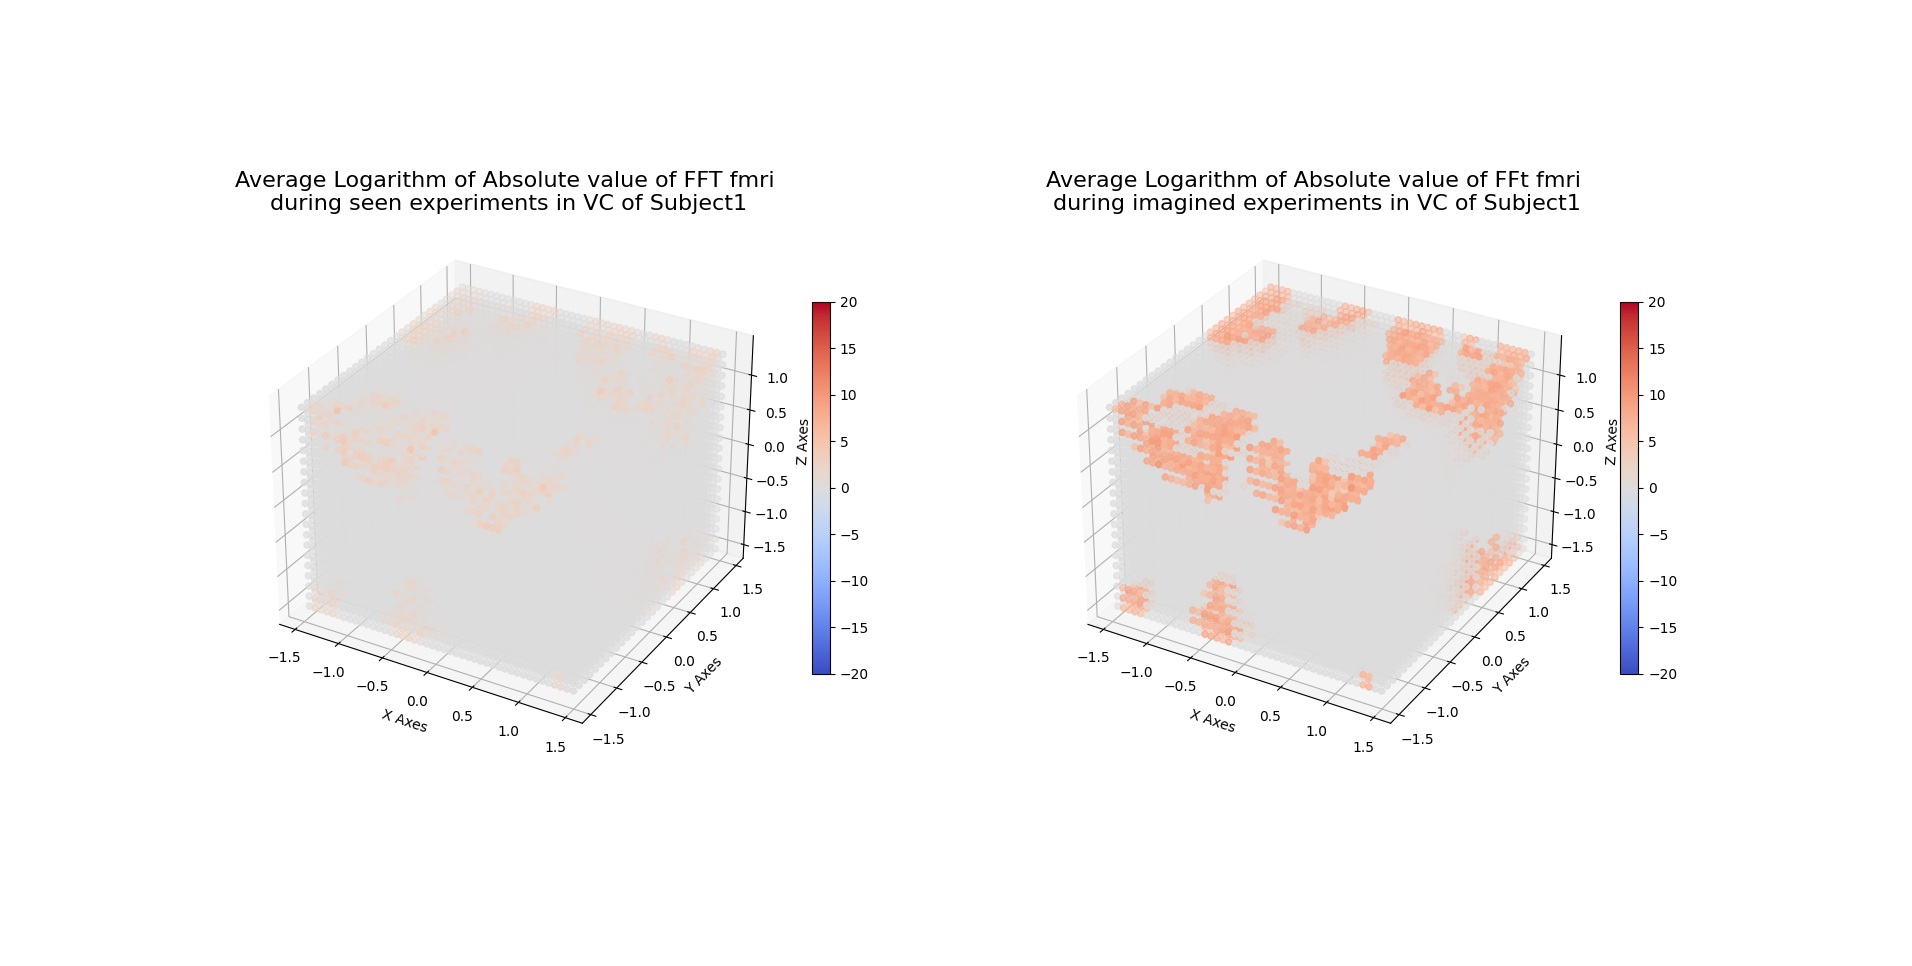
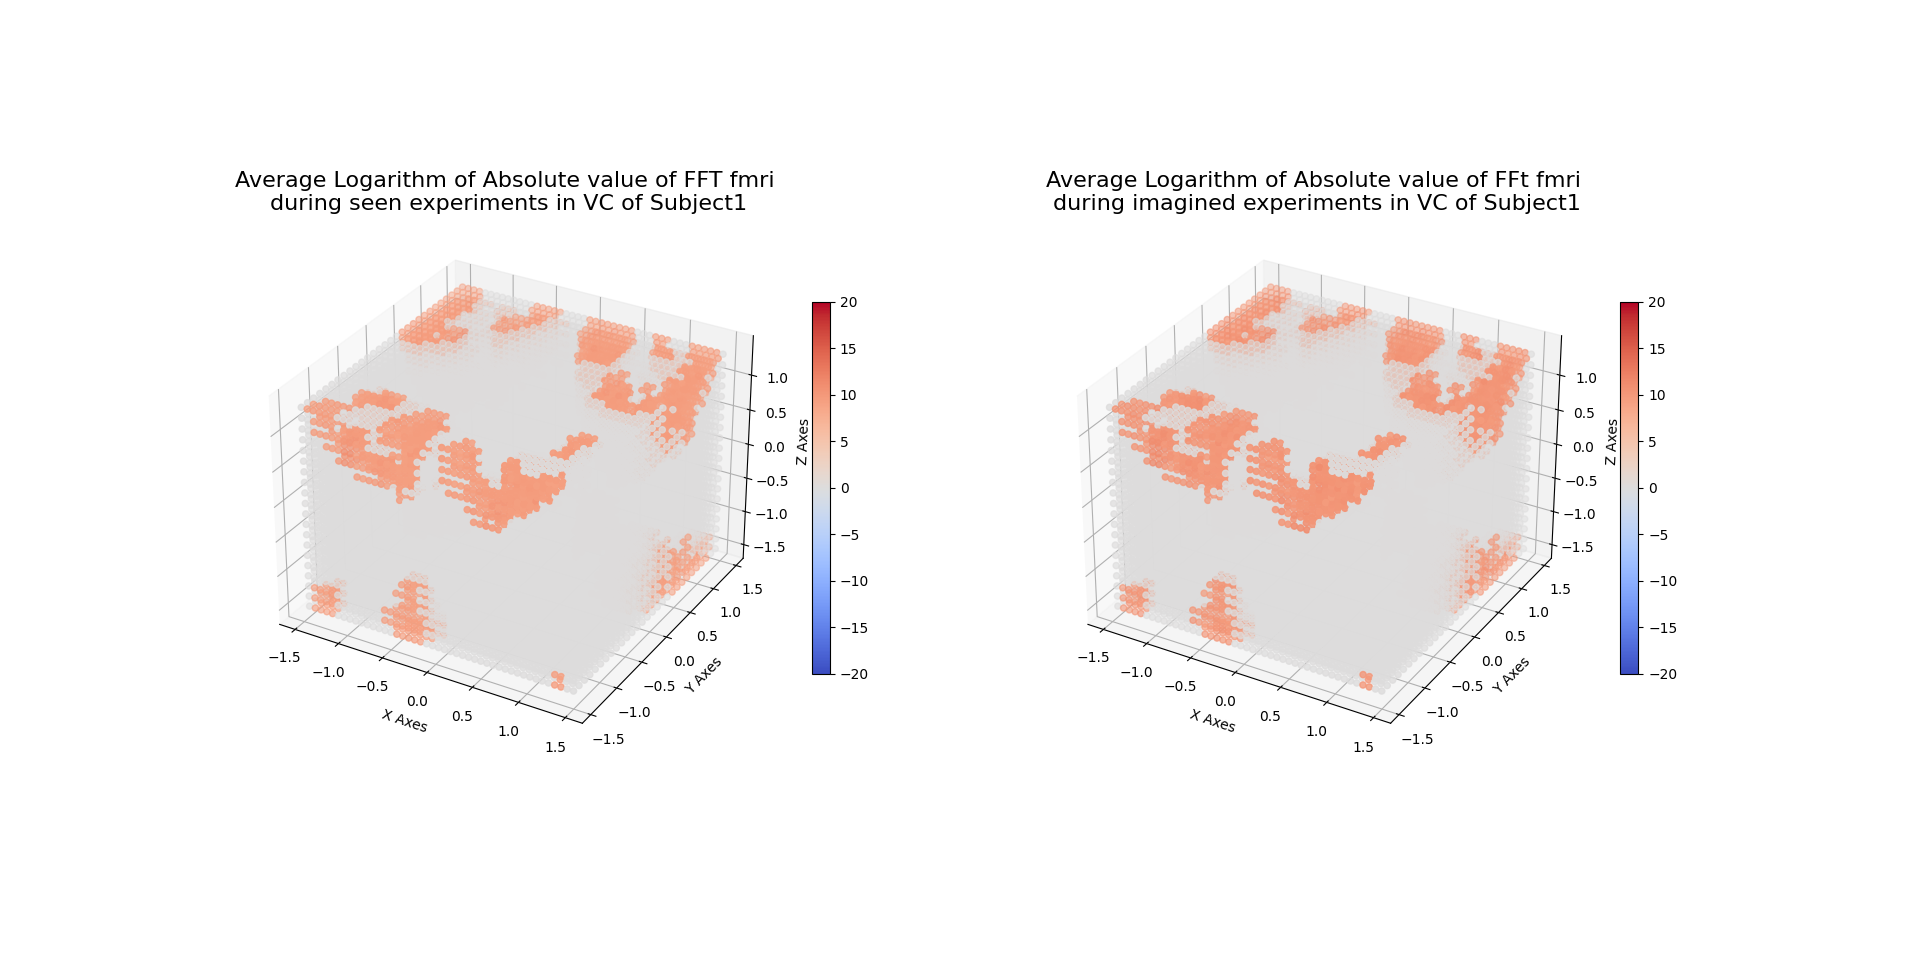
fft visualisation fixes

diff --git a/visualise_fft.py b/visualise_fft.py
@@ -28,25 +28,25 @@ for subject in {'Subject1' : dir_path+'/original code/data/Subject1.h5'}: #for n
     x_shape=int((voxel_x.max()-voxel_x.min())/3+1)
     y_shape=int((voxel_y.max()-voxel_y.min())/3+1)
     z_shape=int((voxel_z.max()-voxel_z.min())/3+1)
-    pc=np.zeros((x_shape,y_shape,z_shape))
-    for i in range(len(voxel_x)):
-        x=voxel_x[i]
-        y=voxel_y[i]
-        z=voxel_z[i]
-        x_ind = int((x - voxel_x.min())/3)
-        z_ind = int((z - voxel_z.min())/3)
-        y_ind = int((y - voxel_y.min())/3)
-        pc[x_ind][y_ind][z_ind]=np.abs(fmri[i])
-
-    pc2=np.zeros((x_shape,y_shape,z_shape))
-    for i in range(len(voxel_x)):
-        x=voxel_x[i]
-        y=voxel_y[i]
-        z=voxel_z[i]
-        x_ind = int((x - voxel_x.min())/3)
-        z_ind = int((z - voxel_z.min())/3)
-        y_ind = int((y - voxel_y.min())/3)
-        pc2[x_ind][y_ind][z_ind]=np.abs(fmri2[i])
+    # pc=np.zeros((x_shape,y_shape,z_shape))
+    # for i in range(len(voxel_x)):
+    #     x=voxel_x[i]
+    #     y=voxel_y[i]
+    #     z=voxel_z[i]
+    #     x_ind = int((x - voxel_x.min())/3)
+    #     z_ind = int((z - voxel_z.min())/3)
+    #     y_ind = int((y - voxel_y.min())/3)
+    #     pc[x_ind][y_ind][z_ind]=np.abs(fmri[i])
+    #
+    # pc2=np.zeros((x_shape,y_shape,z_shape))
+    # for i in range(len(voxel_x)):
+    #     x=voxel_x[i]
+    #     y=voxel_y[i]
+    #     z=voxel_z[i]
+    #     x_ind = int((x - voxel_x.min())/3)
+    #     z_ind = int((z - voxel_z.min())/3)
+    #     y_ind = int((y - voxel_y.min())/3)
+    #     pc2[x_ind][y_ind][z_ind]=np.abs(fmri2[i])
 
     # x= np.arange(voxel_x.min(), voxel_x.max()+3, 3)
     # y= np.arange(voxel_y.min(), voxel_y.max()+3, 3)
@@ -62,23 +62,23 @@ for subject in {'Subject1' : dir_path+'/original code/data/Subject1.h5'}: #for n
     print(z.shape)
     xx, yy ,zz = np.meshgrid(x, y, z,indexing='ij')
 
-    fig = plt.figure(figsize=plt.figaspect(0.5))
-    ax = fig.add_subplot(1, 2, 1,projection="3d")
-    plot=ax.scatter(xx.flatten(),yy.flatten(),zz.flatten(),s=20,c=pc,cmap='coolwarm',vmin=-20,vmax=+20)
-    ax.set_xlabel('X Axes')
-    ax.set_ylabel('Y Axes')
-    ax.set_zlabel('Z Axes')
-    ax.set_title("Average Logarithm of Absolute value of FFT fmri \nduring seen experiments in " + roi + " of " + subject,fontsize=16)
-    fig.colorbar(plot,shrink=0.5)
-
-    ax = fig.add_subplot(1, 2, 2, projection='3d')
-    plot=ax.scatter(xx.flatten(),yy.flatten(),zz.flatten(),s=20,c=pc2,cmap='coolwarm',vmin=-20,vmax=+20)
-    ax.set_xlabel('X Axes')
-    ax.set_ylabel('Y Axes')
-    ax.set_zlabel('Z Axes')
-    ax.set_title("Average Logarithm of Absolute value of FFt fmri \nduring imagined experiments in " + roi + " of " + subject,fontsize=16)
-    fig.colorbar(plot,shrink=0.5)
-    plt.show()
+    # fig = plt.figure(figsize=plt.figaspect(0.5))
+    # ax = fig.add_subplot(1, 2, 1,projection="3d")
+    # plot=ax.scatter(xx.flatten(),yy.flatten(),zz.flatten(),s=20,c=pc,cmap='coolwarm',vmin=-20,vmax=+20)
+    # ax.set_xlabel('X Axes')
+    # ax.set_ylabel('Y Axes')
+    # ax.set_zlabel('Z Axes')
+    # ax.set_title("Average Logarithm of Absolute value of FFT fmri \nduring seen experiments in " + roi + " of " + subject,fontsize=16)
+    # fig.colorbar(plot,shrink=0.5)
+    #
+    # ax = fig.add_subplot(1, 2, 2, projection='3d')
+    # plot=ax.scatter(xx.flatten(),yy.flatten(),zz.flatten(),s=20,c=pc2,cmap='coolwarm',vmin=-20,vmax=+20)
+    # ax.set_xlabel('X Axes')
+    # ax.set_ylabel('Y Axes')
+    # ax.set_zlabel('Z Axes')
+    # ax.set_title("Average Logarithm of Absolute value of FFt fmri \nduring imagined experiments in " + roi + " of " + subject,fontsize=16)
+    # fig.colorbar(plot,shrink=0.5)
+    # plt.show()
 
 
 
@@ -102,9 +102,44 @@ for subject in {'Subject1' : dir_path+'/original code/data/Subject1.h5'}: #for n
             z_ind = int((z - voxel_z.min())/3)
             y_ind = int((y - voxel_y.min())/3)
             pc[x_ind][y_ind][z_ind]=np.abs(fmri[i])
-        X.append(np.argmax(pc))
+        X.append(pc)
+    X=np.stack(X)
+    Y=np.array(Y)
     absavgdata = X
-    plt.scatter(Y,absavgdata)
-    plt.xlabel('Seen Vs. Imagined')
-    plt.ylabel('Average For Each Sample')
+    seen = absavgdata[Y==0]
+    imagined = absavgdata[Y==1]
+    pc=np.average(seen,axis=0)
+    pc2=np.average(imagined,axis=0)
+
+    fig = plt.figure(figsize=plt.figaspect(0.5))
+    ax = fig.add_subplot(1, 2, 1,projection="3d")
+    plot=ax.scatter(xx.flatten(),yy.flatten(),zz.flatten(),s=20,c=pc,cmap='coolwarm',vmin=-20,vmax=+20)
+    ax.set_xlabel('X Axes')
+    ax.set_ylabel('Y Axes')
+    ax.set_zlabel('Z Axes')
+    ax.set_title("Average Logarithm of Absolute value of FFT fmri \nduring seen experiments in " + roi + " of " + subject,fontsize=16)
+    fig.colorbar(plot,shrink=0.5)
+
+    ax = fig.add_subplot(1, 2, 2, projection='3d')
+    plot=ax.scatter(xx.flatten(),yy.flatten(),zz.flatten(),s=20,c=pc2,cmap='coolwarm',vmin=-20,vmax=+20)
+    ax.set_xlabel('X Axes')
+    ax.set_ylabel('Y Axes')
+    ax.set_zlabel('Z Axes')
+    ax.set_title("Average Logarithm of Absolute value of FFt fmri \nduring imagined experiments in " + roi + " of " + subject,fontsize=16)
+    fig.colorbar(plot,shrink=0.5)
+    plt.show()
+
+    absavgdata=np.zeros(X.shape[0])
+    for i in range(absavgdata.shape[0]):
+        absavgdata[i]=np.mean(X[i])
+    seen = absavgdata[Y==0]
+    imagined = absavgdata[Y==1]
+
+    bins = np.linspace(0,2.5,1000)
+
+    fig,ax1 = plt.subplots()
+    ax1.hist(seen, bins, alpha = 0.6, color = 'c', label = "Seen")
+    ax2 = ax1.twinx()
+    ax2.hist(imagined, bins, alpha = 0.6, color = 'g', label = "Imagined")
+    fig.legend(bbox_to_anchor = (0.85,0.8))
     plt.show()
